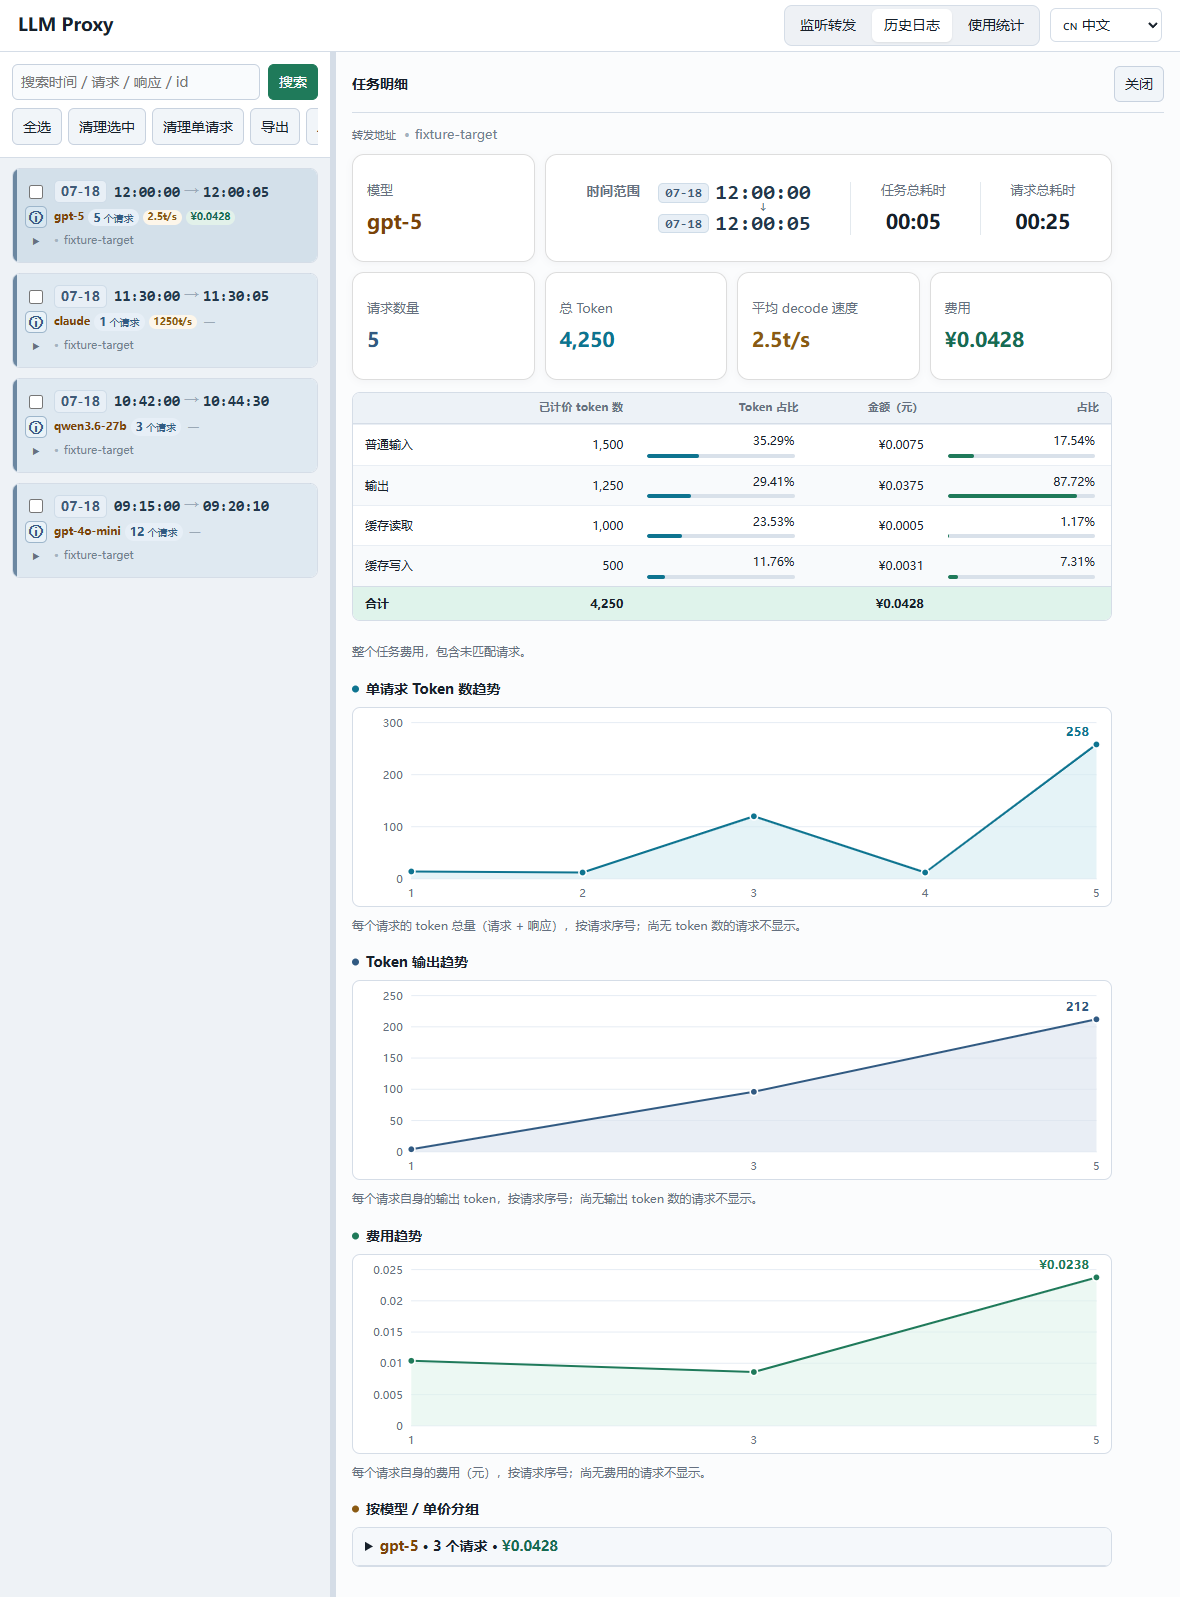
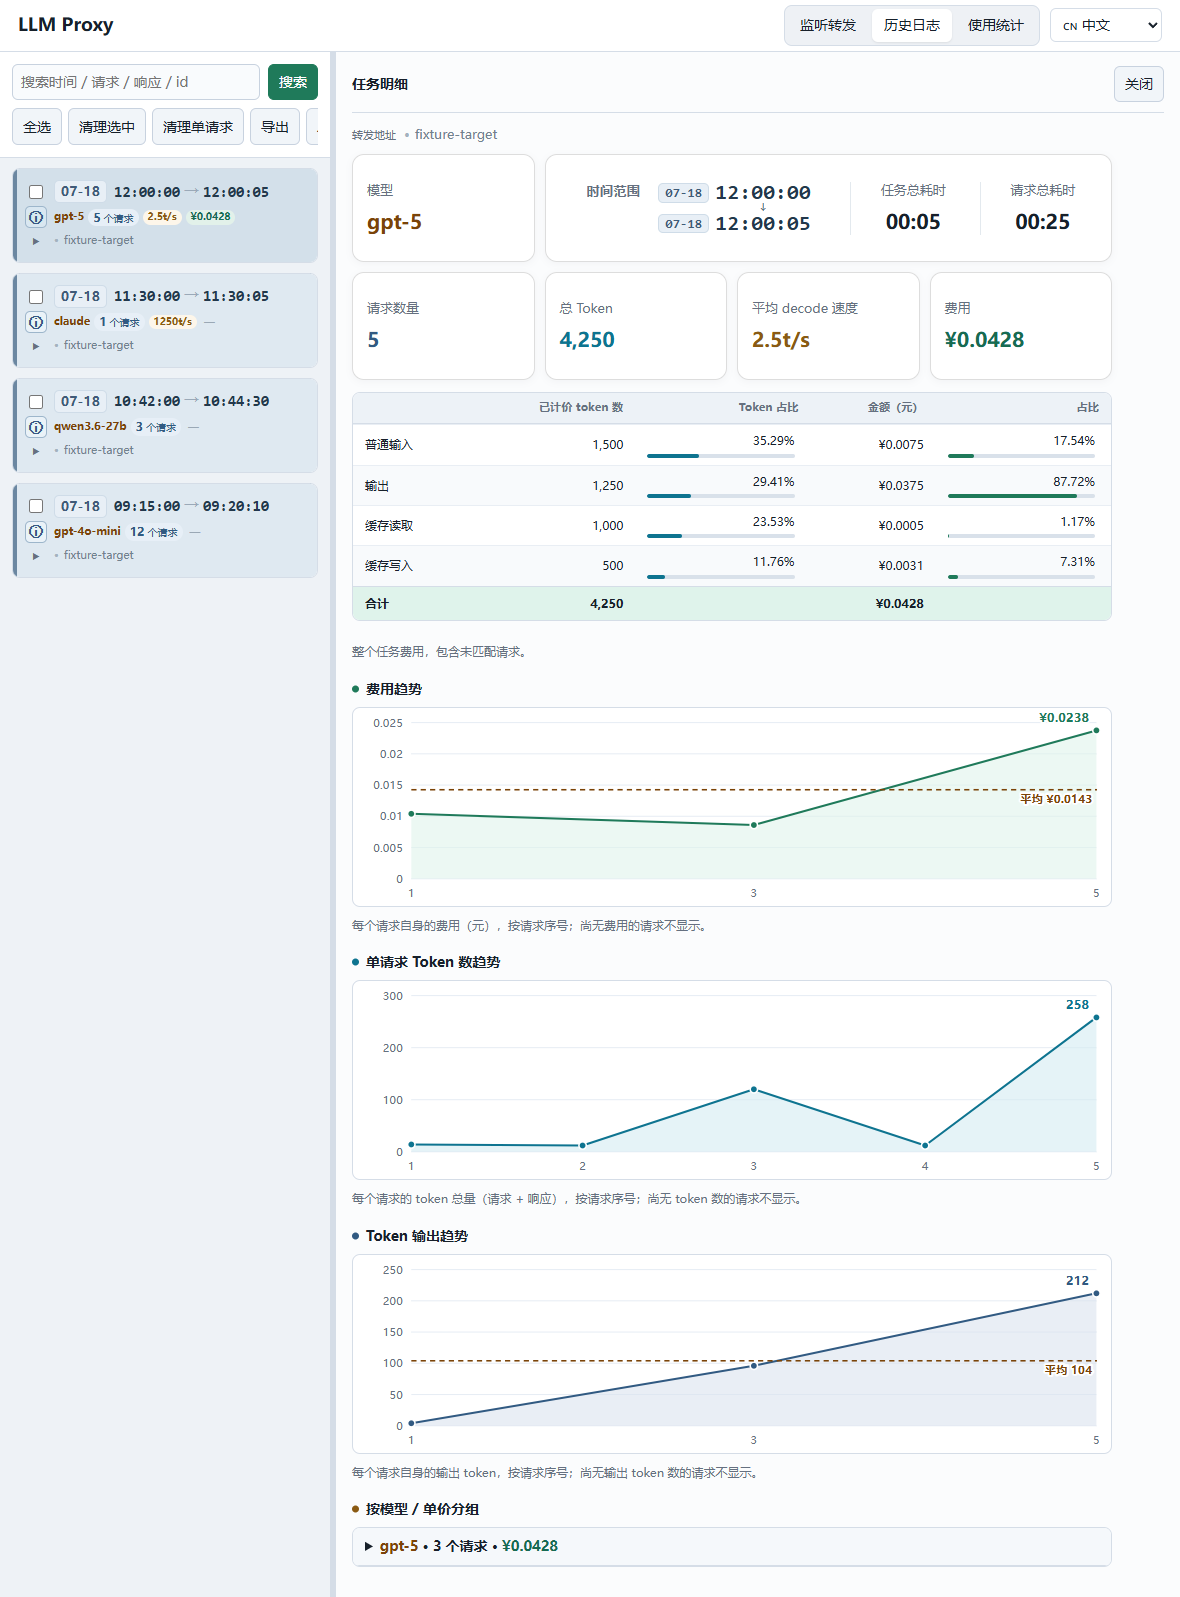
feat(ui): add average-value dashed line to task-detail cost and token-output trend charts
Dashed horizontal mean line with the value labeled at the right edge of
the cost trend and token output trend charts (per-request token total
chart unchanged). The line and label use the UI amber color so they stay
distinct from each chart's green/blue data series, and render above the
dots so dense point clusters cannot cover the label. The cost mean is
computed with exact integer division on nano-CNY values before formatting.

- app.js: chartMeanLine helper, i18n keys, mean computation
- app.css: .token-chart-mean / .token-chart-mean-label (amber, white halo)
- admin-ui test: mean line presence + label text assertions
- regenerated task-detail baselines (zh/en), doc hashes/descriptions updated

diff --git a/src/admin/static/app.js b/src/admin/static/app.js
@@ -147,6 +147,7 @@ const translations = {
     outputTokenTrend: "Token 输出趋势",
     outputTokenTrendNote: "每个请求自身的输出 token，按请求序号；尚无输出 token 数的请求不显示。",
     outputTokenTrendNoData: "暂无输出 token 数据",
+    trendAvgPrefix: "平均",
     priceGroups: "按模型 / 单价分组",
     priced: "已计价",
     retry: "重试",
@@ -349,6 +350,7 @@ const translations = {
     outputTokenTrendNote:
       "This request's own output tokens, by request sequence; requests without an output token count yet are not shown.",
     outputTokenTrendNoData: "No output token data",
+    trendAvgPrefix: "avg",
     priceGroups: "Model / price groups",
     priced: "Priced",
     retry: "Retry",
@@ -1714,6 +1716,18 @@ function niceAxisScale(maxValue) {
   }
   return best ?? { step: 1, axisMax: Math.ceil(max) };
 }
+// Dashed horizontal line marking a trend chart's average value (used by the
+// cost and token-output charts), drawn across the full plot width and labeled
+// at the right edge so the typical per-request size reads at a glance without
+// hovering. Returns an empty string for a zero mean, which would sit on the
+// x axis and would be indistinguishable from it. The chart renders it after
+// the dots so a dense cluster of points cannot cover the value label.
+function chartMeanLine(yFor, mean, label, padTop, padLeft, padRight, plotHeight, width) {
+  if (mean <= 0) return "";
+  const y = yFor(mean);
+  const above = y > padTop + plotHeight - 18;
+  return `<line x1="${padLeft}" y1="${y}" x2="${width - padRight}" y2="${y}" class="token-chart-mean"/><text x="${width - padRight - 4}" y="${above ? y - 6 : y + 13}" text-anchor="end" class="token-chart-mean-label">${label}</text>`;
+}
 // SVG label pinning the exact value of a trend chart's highest point just
 // above its dot (flipped to the left of the dot when the peak sits close to
 // the right edge, so the text never overflows the viewBox). Shared element
@@ -1836,10 +1850,19 @@ function taskCostChartHtml(points) {
   const plotWidth = width - padLeft - padRight;
   const plotHeight = height - padTop - padBottom;
   const valueFor = (point) => Number(point.cost_nano_cny) / 1e9;
+  const values = known.map(valueFor);
+  // The per-request mean as an exact BigInt division in nano-CNY, so the
+  // label is not affected by floating-point drift in the sum of yuan doubles
+  // (0.01425 would otherwise round to $0.0142).
+  const meanNano =
+    values.length >= 2
+      ? known.reduce((sum, point) => sum + BigInt(String(point.cost_nano_cny)), 0n) /
+        BigInt(known.length)
+      : 0n;
+  const meanCost = Number(meanNano) / 1e9;
   const maxSequence = Math.max(...known.map((point) => Number(point.sequence)));
   const minSequence = Math.min(...known.map((point) => Number(point.sequence)));
-  const maxCost = Math.max(...known.map(valueFor));
-  const { step: niceStep, axisMax } = niceAxisScale(maxCost);
+  const { step: niceStep, axisMax } = niceAxisScale(Math.max(...values));
   const xFor = (sequence) =>
     maxSequence === minSequence
       ? padLeft + plotWidth / 2
@@ -1898,7 +1921,17 @@ function taskCostChartHtml(points) {
     width,
     padRight,
   );
-  return `<div class="cost-chart"><svg viewBox="0 0 ${width} ${height}" role="img" aria-label="${escapeHtml(t("costTrend"))}">${gridLines.join("")}${xLabels}${area}${line}${dots}${peakLabel}</svg></div>`;
+  const meanLine = chartMeanLine(
+    yFor,
+    meanCost,
+    escapeHtml(`${t("trendAvgPrefix")} ${formatCurrencyAmount(pricingDecimalFromNano(meanNano))}`),
+    padTop,
+    padLeft,
+    padRight,
+    plotHeight,
+    width,
+  );
+  return `<div class="cost-chart"><svg viewBox="0 0 ${width} ${height}" role="img" aria-label="${escapeHtml(t("costTrend"))}">${gridLines.join("")}${xLabels}${area}${line}${dots}${meanLine}${peakLabel}</svg></div>`;
 }
 // Raw SVG line chart for the task-detail token output trend: x = request
 // sequence, y = this request's own output (response) tokens. Requests whose
@@ -1921,8 +1954,9 @@ function taskOutputTokenChartHtml(points) {
   const plotHeight = height - padTop - padBottom;
   const maxSequence = Math.max(...known.map((point) => Number(point.sequence)));
   const minSequence = Math.min(...known.map((point) => Number(point.sequence)));
-  const maxTokens = Math.max(...known.map((point) => Number(point.output_tokens)));
-  const { step: niceStep, axisMax } = niceAxisScale(maxTokens);
+  const values = known.map((point) => Number(point.output_tokens));
+  const meanOutput = values.length >= 2 ? values.reduce((sum, v) => sum + v, 0) / values.length : 0;
+  const { step: niceStep, axisMax } = niceAxisScale(Math.max(...values));
   const xFor = (sequence) =>
     maxSequence === minSequence
       ? padLeft + plotWidth / 2
@@ -1981,7 +2015,17 @@ function taskOutputTokenChartHtml(points) {
     width,
     padRight,
   );
-  return `<div class="output-token-chart"><svg viewBox="0 0 ${width} ${height}" role="img" aria-label="${escapeHtml(t("outputTokenTrend"))}">${gridLines.join("")}${xLabels}${area}${line}${dots}${peakLabel}</svg></div>`;
+  const meanLine = chartMeanLine(
+    yFor,
+    meanOutput,
+    escapeHtml(`${t("trendAvgPrefix")} ${fullNumber(Math.round(meanOutput))}`),
+    padTop,
+    padLeft,
+    padRight,
+    plotHeight,
+    width,
+  );
+  return `<div class="output-token-chart"><svg viewBox="0 0 ${width} ${height}" role="img" aria-label="${escapeHtml(t("outputTokenTrend"))}">${gridLines.join("")}${xLabels}${area}${line}${dots}${meanLine}${peakLabel}</svg></div>`;
 }
 const pricingGroupOpenStorageKey = "llmProxyPricingGroupOpen";
 function loadPricingGroupOpenState() {
@@ -2210,7 +2254,7 @@ function renderTaskPricingPanel() {
       ? state.taskOutputTokenSeries.points
       : null;
   const outputTokenChart = `<h3 class="section-output">${escapeHtml(t("outputTokenTrend"))}</h3>${outputTokenSeries === null ? `<p>${escapeHtml(t("loading"))}</p>` : taskOutputTokenChartHtml(outputTokenSeries)}<p class="pricing-note">${escapeHtml(t("outputTokenTrendNote"))}</p>`;
-  panel.innerHTML = `<div class="pricing-panel-head"><strong>${escapeHtml(t("taskPricing"))}</strong><button type="button" data-close-pricing>${escapeHtml(t("close"))}</button></div>${summaryCard}${data.priced_request_count ? taskBreakdownTableHtml(data.breakdown, pricingDecimalFromNano(data.cost_nano_cny)) : `<p>${escapeHtml(reasons || t("unpriced"))}</p>`}<p class="pricing-note">${escapeHtml(t("taskWholeScope"))}</p>${tokenChart}${outputTokenChart}${costChart}<h3 class="section-groups">${escapeHtml(t("priceGroups"))}</h3>${groups || `<p>${escapeHtml(t("unpriced"))}</p>`}`;
+  panel.innerHTML = `<div class="pricing-panel-head"><strong>${escapeHtml(t("taskPricing"))}</strong><button type="button" data-close-pricing>${escapeHtml(t("close"))}</button></div>${summaryCard}${data.priced_request_count ? taskBreakdownTableHtml(data.breakdown, pricingDecimalFromNano(data.cost_nano_cny)) : `<p>${escapeHtml(reasons || t("unpriced"))}</p>`}<p class="pricing-note">${escapeHtml(t("taskWholeScope"))}</p>${costChart}${tokenChart}${outputTokenChart}<h3 class="section-groups">${escapeHtml(t("priceGroups"))}</h3>${groups || `<p>${escapeHtml(t("unpriced"))}</p>`}`;
   fitTaskSummaryValues(panel);
   fitTaskSummaryValues(panel);
 }

diff --git a/test-node/ui/admin-ui.test.ts b/test-node/ui/admin-ui.test.ts
@@ -1451,6 +1451,10 @@ describe("admin UI history page", { timeout: UI_TEST_TIMEOUT_MS }, () => {
     // The highest point is labeled with its exact value (request #5 here),
     // formatted like the dot tooltips (rounded to 4 decimal places).
     await expectPage(costChart.locator(".token-chart-peak")).toHaveText("$0.0238");
+    // The dashed horizontal line marks the average per-request cost
+    // (0.0104 + 0.0086 + 0.02375) / 3, labeled at the right edge of the plot.
+    await expectPage(costChart.locator(".token-chart-mean")).toHaveCount(1);
+    await expectPage(costChart.locator(".token-chart-mean-label")).toHaveText("avg $0.0143");
     // Token output trend line chart: one dot per request with a known output
     // token count, each carrying that request's own (non-cumulative) count.
     await expectPage(panel).toContainText("Token output trend");
@@ -1464,6 +1468,10 @@ describe("admin UI history page", { timeout: UI_TEST_TIMEOUT_MS }, () => {
       "Request #5: 212 output tokens",
     );
     await expectPage(outputChart.locator(".token-chart-peak")).toHaveText("212");
+    // The dashed horizontal line marks the average output token count
+    // (4 + 96 + 212) / 3, labeled at the right edge of the plot.
+    await expectPage(outputChart.locator(".token-chart-mean")).toHaveCount(1);
+    await expectPage(outputChart.locator(".token-chart-mean-label")).toHaveText("avg 104");
     await panel.screenshot({ path: "test-results/task-pricing-panel.png" });
     await expectPage(group.locator(".log-group-body")).toHaveCount(0);
     await expectPage(group.locator('[data-select-group="task-one"]')).not.toBeChecked();

diff --git a/src/admin/static/app.css b/src/admin/static/app.css
@@ -1841,6 +1841,29 @@ label span {
   stroke-width: 1.5;
   cursor: default;
 }
+/* Dashed horizontal line marking the average value in the cost and token
+   output trend charts, with its value labeled at the right edge of the plot
+   so the typical per-request size reads at a glance without hovering. Both
+   the line and the label use the UI's amber model color, deliberately
+   distinct from each chart's green/teal/blue data line and from the gray
+   grid, so the average never blends into the series it annotates. The
+   white halo (paint-order stroke) keeps the label legible where the line
+   crosses grid lines or the series. */
+.token-chart-mean {
+  stroke: #7a4308;
+  stroke-width: 1.5;
+  stroke-dasharray: 5 4;
+}
+.token-chart-mean-label {
+  fill: #7a4308;
+  font-size: 11px;
+  font-weight: 600;
+  font-variant-numeric: tabular-nums;
+  paint-order: stroke;
+  stroke: var(--panel);
+  stroke-width: 3;
+  stroke-linejoin: round;
+}
 /* Peak-value label pinned just above the highest dot of each trend chart,
    so the max point can be read without hovering. The white halo (paint-order
    stroke) keeps it legible where it crosses grid lines; color follows the

diff --git a/docs/refactoring/ui-visual-baseline.md b/docs/refactoring/ui-visual-baseline.md
@@ -16,8 +16,8 @@
[7 lines of base64/hex data omitted]
 
 哈希复现命令：
 
@@ -81,7 +81,7 @@ sha256sum doc/ui_proxy_cn.png doc/ui_proxy_en.png doc/ui_logs_cn.png doc/ui_logs
 - 标题下为总费用高亮块（绿色左色条 + 浅绿底）：左侧大号总费用金额，右侧“已计价 X / 未计价 Y / 等待中 Z”计数。
 - 高亮块下按序为转发地址、任务总耗时（首请求到末请求结束的墙钟时间）与请求总耗时（各请求耗时之和）三行说明。
 - 中部为计费明细表：按“未缓存输入 / 输出 / 缓存读取 / 缓存写入”列出计费 tokens、token 占比、金额与费用占比（带占比条）；token 占比条为青色（#0e7490）、费用占比条为绿色，两列配色与折线图一致，末行为合计。
-- 表下为“Whole-task cost”提示文案，随后是三张 SVG 折线图（x 均为请求序号，一个点一个请求，点带悬停 title），每图下方各有一行说明：Token 总量趋势（y=每请求 token 总量，无 token 数的请求不显示）、Token 输出趋势（y=自任务开始到每个请求为止的累计输出 token）、费用趋势（y=每请求自身费用，无费用的请求不显示）。三图按指标语义着色：Token 总量为青色（#0e7490，与“总 Token”卡片同色）、Token 输出为蓝色（#315a82，与请求数量蓝色同系）、费用保持绿色（绿色专属于费用语义）；各节标题左侧有与折线同色的小圆点，帮助快速区分三个分区。
+- 表下为"Whole-task cost"提示文案,随后是三张 SVG 折线图(x 均为请求序号,一个点一个请求,点带悬停 title),每图下方各有一行说明:费用趋势(y=每请求自身费用,无费用的请求不显示)、Token 总量趋势(y=每请求 token 总量,无 token 数的请求不显示)、Token 输出趋势(y=自任务开始到每个请求为止的累计输出 token)。三图按指标语义着色:Token 总量为青色(#0e7490,与"总 Token"卡片同色)、Token 输出为蓝色(#315a82,与请求数量蓝色同系)、费用保持绿色（绿色专属于费用语义）；各节标题左侧有与折线同色的小圆点，帮助快速区分三个分区。费用趋势与 Token 输出趋势图内另有一条表示逐请求平均值的水平虚线（琥珀色，独立于各图折线颜色，避免与数据混在一起），数值标在线右端（平均值为 0 或仅一个点时不画）；虚线与数值画在折线点之上，点密集时不被遮挡；逐请求 Token 总量图不含此线。
 - 三张折线图的纵轴刻度取 1/2/5 的“整齐”步长，轴上限选为在 3–8 段网格内最接近最大值的刻度，使最高点贴近顶部网格线，避免图表上方出现大片空白。
 - 面板底部列出按计费模型分组的“价格分组”折叠卡片（模型 · 请求数 · 费用，模型名为琥珀色、费用为绿色，与任务列表同一语义色），标题带琥珀色圆点；默认折叠，展开后为对应明细表；手动展开/折叠状态按任务记忆，面板刷新后保持。
 - 面板内容宽度上限约 760px；中英文界面保持同一布局，金额单位分别使用 ¥ 与 $。

diff --git a/AGENTS.md b/AGENTS.md
@@ -1,7 +1,7 @@
 # Project Notes for Coding Agents
 
 - Project is active: do not preserve old internal APIs by default. For UI/admin API changes, use the simplest current contract unless compatibility is requested. Document every new feature.
-- UI changes: run `npm run regen:ui-baselines` before committing; update README images (`doc/ui_*.png`) and hashes in `docs/refactoring/ui-visual-baseline.md`. Inspect regenerated images in full before cropping. UI text changes also require `npx prettier --check .` and checking English baselines (`doc/ui_proxy_en.png`, `doc/ui_logs_en.png`) for stray Chinese. The usage-statistics API contract is unit-sensitive: `overview` totals and byTarget/byModel `cost` are yuan strings, while trend `points[].cost` is a nano-CNY integer the UI divides by 1e9; new baseline rows in the doc need a real SHA-256 hash (the regen script's row regex only matches a full 64-char `[0-9a-f]{64}` cell, so it rejects `PENDING` placeholders or truncated hashes like `f81eaa20a8d1…` — a row with a shortened hash makes the full-regen doc-sync step fail, so keep/restore the complete hash; for a panel-only change regenerating just the two task-detail baselines is enough, the other six stay byte-identical). To add a _new_ baseline without disturbing the existing ones, capture only it (`REGEN_BASELINES=1 npx vitest run test-node/ui/admin-ui.test.ts -t "<new test>"` — `screenshotDifference` writes the file and returns 0) and hand-fill its doc row; a full `npm run regen:ui-baselines` re-captures every page and can drift the stats page.
+- UI changes: run `npm run regen:ui-baselines` before committing; update README images (`doc/ui_*.png`) and hashes in `docs/refactoring/ui-visual-baseline.md`. Inspect regenerated images in full before cropping. UI text changes also require `npx prettier --check .` and checking English baselines (`doc/ui_proxy_en.png`, `doc/ui_logs_en.png`) for stray Chinese. The usage-statistics API contract is unit-sensitive: `overview` totals and byTarget/byModel `cost` are yuan strings, while trend `points[].cost` is a nano-CNY integer the UI divides by 1e9; derived values like averages must be computed with exact integer division on the nano values and only then converted to a decimal string (a naive float average of yuan values can come out as 0.014249999999999998 and format as 0.0142, one last-digit off versus the exact integer mean 0.0143); new baseline rows in the doc need a real SHA-256 hash (the regen script's row regex only matches a full 64-char `[0-9a-f]{64}` cell, so it rejects `PENDING` placeholders or truncated hashes like `f81eaa20a8d1…` — a row with a shortened hash makes the full-regen doc-sync step fail, so keep/restore the complete hash; for a panel-only change regenerating just the two task-detail baselines is enough, the other six stay byte-identical). To add a _new_ baseline without disturbing the existing ones, capture only it (`REGEN_BASELINES=1 npx vitest run test-node/ui/admin-ui.test.ts -t "<new test>"` — `screenshotDifference` writes the file and returns 0) and hand-fill its doc row; a full `npm run regen:ui-baselines` re-captures every page and can drift the stats page.
 - `src/admin/static/app.css` is a cumulative stack of layout passes; later blocks in the file are not authoritative (e.g. the token card's 2x2 details grid is governed by a higher-specificity unmedia-queried `.stats-overview .stat-card-tokens .token-details` rule). When a layout change appears to have no effect, audit specificity via computed styles, not file order. Reusing a generic class in a new context (e.g. `.stat-card` in the task-detail summary) silently inherits later same-class rules (the stats block sets `clamp()` font-size + `white-space: nowrap`/ellipsis on `strong`), so the new context must explicitly override those properties — `overflow-wrap: anywhere` alone does not beat `white-space: nowrap`.
 - The Electron Chromium (v40) does not support the `:sticky` pseudo-class — neither in stylesheets nor in `querySelector` — so "style only while a sticky element is pinned" cannot be done in CSS; gate such effects in JS or make the style safe in both states.
 - The group summary row (`.log-group-fact-line`) clips right-to-left when too wide: children use `flex: 0 0 auto` and only the row keeps `overflow: hidden`. The model name is the one deliberate exception (`.log-group-fact-line > .log-model` gets `flex: 0 1 auto` + `min-width: 0` + ellipsis + `title`), so an over-long model truncates first and the metric chips (count/speed/cost) stay readable. Do not make another item (e.g. `.log-group-cost`) shrinkable — one accidental extra shrinkable child steals width from the metrics and silently truncates the wrong value. Chip sizing is width-budgeted for the default 330 px sidebar (10 px text, `padding: 0 5px`, `gap: 4px`): a realistic row (long model, 3-digit count and speed, 4-digit cost) fits exactly, so re-measure before enlarging the chips.
